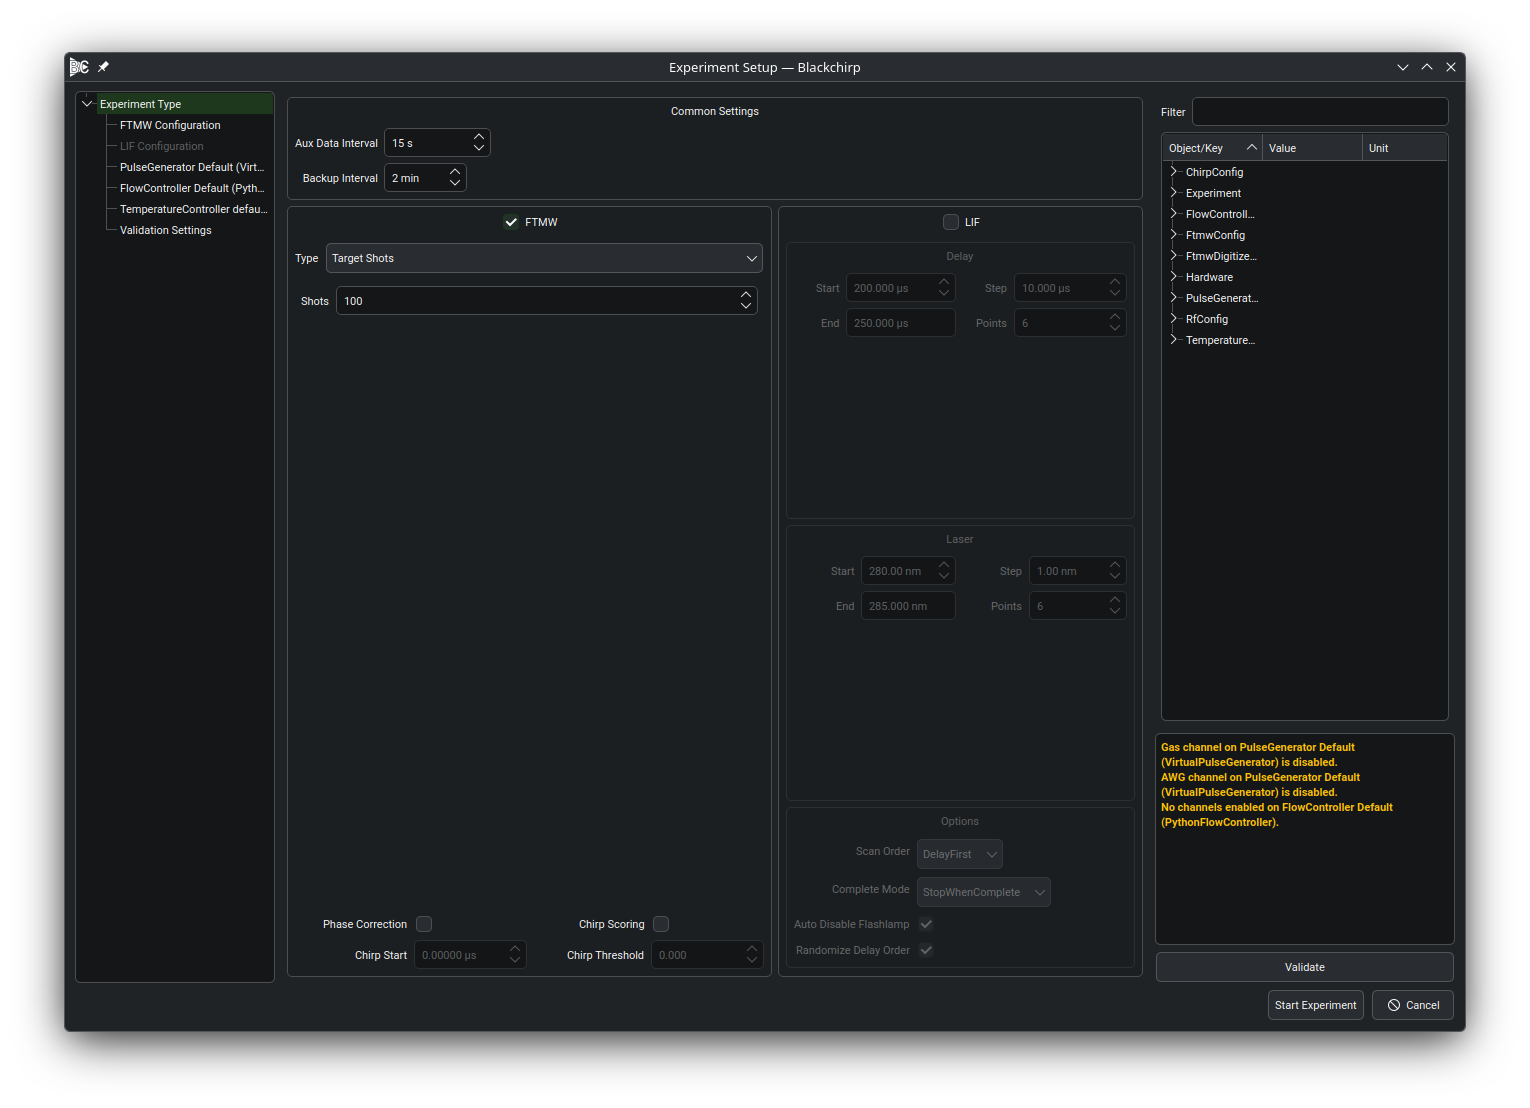
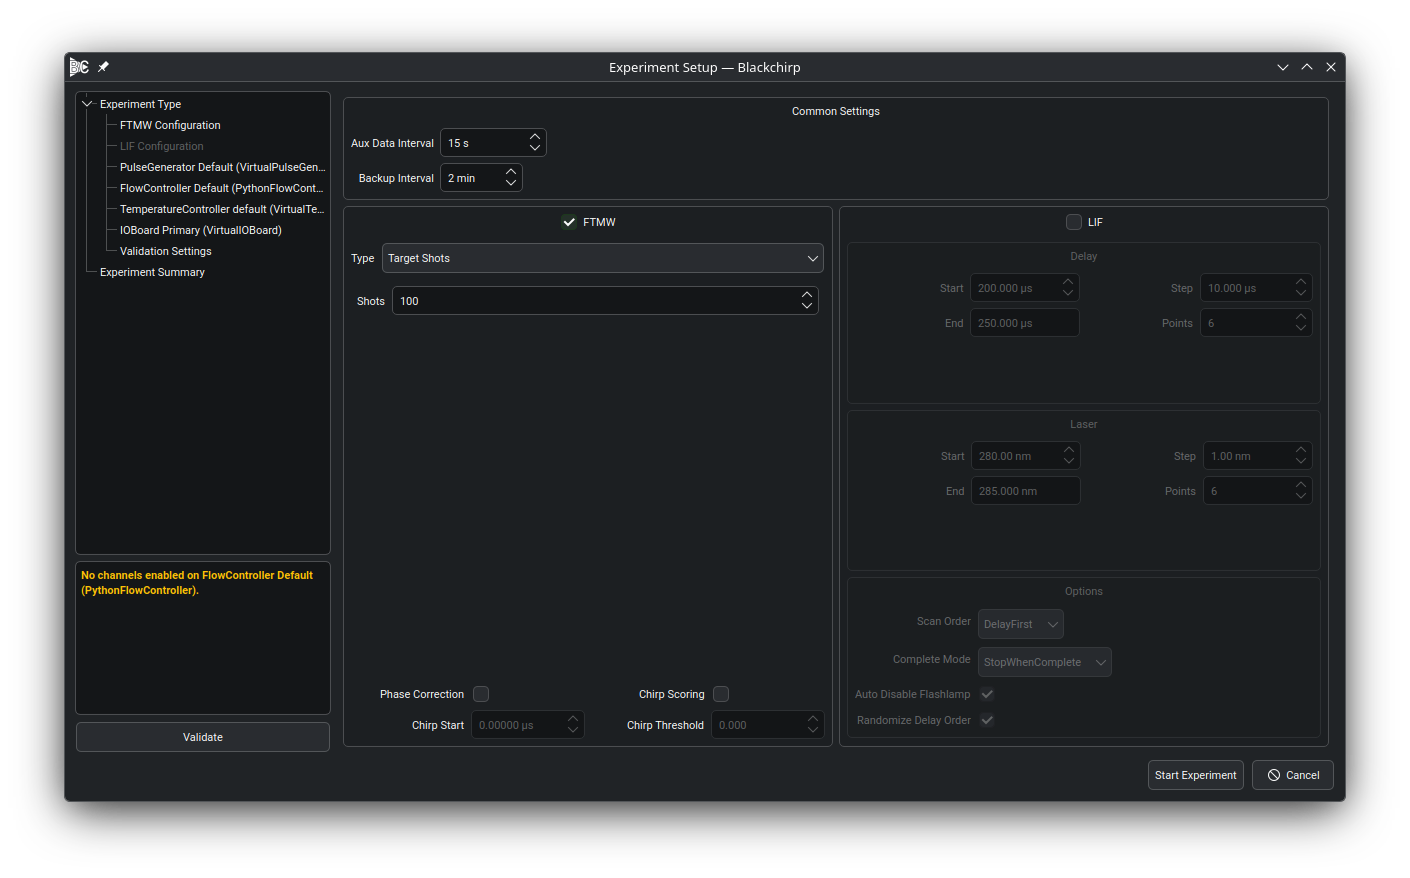
Tighten experiment_setup chapter and refresh shots
Condense the experiment_setup.rst chapter intro and trim apologia,
first-person plurals, and a Harvard anecdote out of
experiment/acquisition_types.rst. Drop the "compile-time hardware
list" framing on the Quick Experiment compatibility check, fold the
trailing optional_hardware note into the opening paragraph, and trim
the LIF Auto-Disable-Flashlamp and Randomize-Delay-Order definitions.
Refresh the experiment-startpage and experiment-validation
screenshots against the ExperimentSetupDialog reflow.

diff --git a/doc/source/user_guide/experiment_setup.rst b/doc/source/user_guide/experiment_setup.rst
@@ -11,31 +11,37 @@ Experiment Setup
    experiment/sequence_mode
    lif/experiment_setup
 
-An ``Experiment`` is the basic acquisition event in Blackchirp, and it may consist of CP-FTMW measurements and/or a laser scan experiment (see the :doc:`LIF experiment setup <lif/experiment_setup>` page for laser-scan acquisitions).
-During an experiment, FID records are collected from the FTMW Digitizer and averaged in the time domain.
-The average FID and its Fourier transform can be viewed and processed in a number of ways on the :doc:`CP-FTMW tab <cp-ftmw>` on the main user interface.
-:doc:`Auxiliary Data <rolling-aux-data>` is also recorded during the experiment.
-Depending on the :doc:`acquisition type <experiment/acquisition_types>`, the experiment will finish when one of the following conditions is met:
+An ``Experiment`` is the basic acquisition event in Blackchirp; it may
+consist of CP-FTMW measurements and/or a laser scan (see the
+:doc:`LIF experiment setup <lif/experiment_setup>` page for laser-scan
+acquisitions). FID records from the FTMW Digitizer are averaged in the
+time domain; the average FID and its Fourier transform are viewed on
+the :doc:`CP-FTMW tab <cp-ftmw>`. :doc:`Auxiliary Data <rolling-aux-data>`
+is also recorded throughout the run.
 
-1. The objective of the experiment is reached (e.g., the requested number of shots has been collected).
-2. The user clicks the ``Abort`` button on the user interface.
-3. One of the :doc:`validation conditions <experiment/validation>` is outside the designated range.
+Depending on the :doc:`acquisition type <experiment/acquisition_types>`,
+an experiment ends when one of the following conditions is met:
+
+1. The objective of the experiment is reached (e.g., the requested
+   number of shots has been collected).
+2. The user clicks the ``Abort`` button.
+3. One of the :doc:`validation conditions <experiment/validation>`
+   falls outside the designated range.
 4. A communication failure occurs with a critical piece of hardware.
 
-To start an experiment, select one of the options under the ``Acquire`` menu in the :ref:`user_guide/ui_overview:Main Toolbar`.
-The ``Start Experiment`` option opens a wizard that walks through configuring acquisition parameters and hardware settings (e.g., digitizer sample rate, FID record length, and optional hardware).
+To start an experiment, select an option from the ``Acquire`` menu in
+the :ref:`user_guide/ui_overview:Main Toolbar`. ``Start Experiment``
+opens a wizard that walks through the FTMW acquisition type, the
+:doc:`FTMW Configuration <ftmw_configuration>` (Rf Configuration,
+:doc:`Chirp <ftmw_configuration/chirp_setup>`, and
+:doc:`Digitizer <ftmw_configuration/digitizer_setup>`), settings for
+any present :doc:`optional hardware <experiment/optional_hardware>`,
+and the desired :doc:`validation conditions <experiment/validation>`.
+A past experiment can be repeated through the
+:doc:`Quick Experiment <experiment/quick_experiment>` action, which
+pre-populates the wizard from a saved experiment.
 
-The key points for an FTMW acquisition are:
-
-1. On the first wizard page, select the desired :doc:`acquisition type <experiment/acquisition_types>` and enter the acquisition objective.
-   For LO Scan and DR Scan types, the scan parameters appear on the same page immediately below the type selector.
-2. Verify and adjust the :doc:`FTMW Configuration <ftmw_configuration>` (Rf Configuration, :doc:`Chirp Configuration <ftmw_configuration/chirp_setup>`, and :doc:`FTMW Digitizer Configuration <ftmw_configuration/digitizer_setup>`).
-3. Review the settings for any present :doc:`optional hardware <experiment/optional_hardware>`.
-4. Set up any desired :doc:`validation conditions <experiment/validation>`.
-
-A past experiment can be repeated using the :doc:`Quick Experiment <experiment/quick_experiment>` option, which pre-populates the wizard from a saved experiment.
-
-Once you have finished with the wizard, Blackchirp reads the settings for each piece of hardware and attempts to initialize each item in turn.
-If any errors occur during this process, the experiment is canceled and error messages will be displayed on the ``Log`` tab.
-In the event that you encounter errors, check the :doc:`Hardware Details <hardware_details>` section of this manual to see if there are known issues or workarounds, and consider `reporting a bug <https://github.com/kncrabtree/blackchirp/issues>`_ if the problem cannot be solved.
-Once all hardware has been initialized successfully, Blackchirp will ensure that it can acquire system resources (including GPU initialization if applicable), create a new folder to store data, and begin the acquisition.
+After the wizard closes, Blackchirp initializes each device in turn;
+errors during initialization cancel the experiment and surface on the
+``Log`` tab. Once initialization succeeds, a new data folder is
+created and acquisition begins.

diff --git a/doc/source/user_guide/experiment/optional_hardware.rst b/doc/source/user_guide/experiment/optional_hardware.rst
@@ -10,10 +10,17 @@
 Optional Hardware Pages
 =======================
 
-After the FTMW chirp and digitizer pages, the experiment wizard inserts a dedicated configuration page for each optional hardware device that is present in the active :doc:`hardware loadout <../hardware_config/loadouts>`.
-Each page is labeled with the display name of the hardware item so that it is unambiguous when multiple devices of the same type are configured.
+After the FTMW chirp and digitizer pages, the experiment wizard
+inserts one configuration page per optional hardware device in the
+active :doc:`loadout <../hardware_config/loadouts>`. Each page is
+labeled with the device's display name so that multiple devices of
+the same type are unambiguous. To add or remove optional devices,
+edit the loadout in the :doc:`Hardware Configuration <../hardware_config>`
+dialog before opening the wizard.
 
-The pages that may appear correspond to the following device types; each is documented in detail on its :doc:`Hardware Details <../hardware_details>` page, including the controls that appear on the wizard page:
+The pages that may appear correspond to the device types below; the
+controls on each page are documented on the device's
+:doc:`Hardware Details <../hardware_details>` page:
 
 - :doc:`Pulse Generator <../hw/pulsegenerator>`
 - :doc:`Flow Controller <../hw/flowcontroller>`
@@ -24,14 +31,14 @@ The pages that may appear correspond to the following device types; each is docu
 Initialization from live settings
 ---------------------------------
 
-By default each optional hardware page is pre-populated with the **live settings** read from the running device at the time the wizard opens.
-This means the values shown reflect the state of the hardware rather than any stored default, so day-to-day parameters (flow setpoints, pulse timings, etc.) require no manual adjustment for a routine experiment.
+Each page is pre-populated with the **live settings** read from the
+running device when the wizard opens, so day-to-day parameters (flow
+setpoints, pulse timings, etc.) require no manual adjustment for a
+routine experiment. To override the live values with the settings
+saved alongside a previous experiment, open the
+:doc:`Quick Experiment <quick_experiment>` dialog and uncheck
+``Use Current Settings`` for the relevant device before launching the
+wizard.
 
-To override live settings with saved values — for example, when repeating a specific historical experimental configuration — use the :doc:`Quick Experiment <quick_experiment>` dialog and uncheck the ``Use Current Settings`` box for the relevant device before opening the wizard.
-
-Changes made on an optional hardware wizard page are applied to the device when the experiment starts; they do not take effect on the running hardware until that point.
-
-.. note::
-   Optional hardware pages only appear for devices that are enabled in the active loadout.
-   If a device type is not listed in the active loadout, its wizard page is omitted entirely.
-   To add or remove optional hardware devices, use the :doc:`Hardware Configuration <../hardware_config>` dialog before opening the experiment wizard.
+Changes made on an optional hardware page are applied to the device
+when the experiment starts, not while the wizard is open.

diff --git a/doc/source/user_guide/experiment/acquisition_types.rst b/doc/source/user_guide/experiment/acquisition_types.rst
@@ -151,19 +151,24 @@ In addition to the acquisition type, other options accessible on the first wizar
 Phase Correction
 ................
 
-Time-domain averaging requires that FIDs are mutually in phase with one another.
-This is typically achieved by locking all oscillators to a common reference frequency generated by a stable source such as a rubidium clock.
-However, in some cases, over the course of a long acquisition, some phase drift may occur (we discovered this one winter day at Harvard when a lab door to the outside was open for 30 minutes for moving equipment out, and the intensity of an OCS signal steadily decreased).
-To mitigate this potential case, Blackchirp has a "phase correction" algorithm that attempts to correct for slow phase drift.
-This algorithm can be enabled by checking the ``Phase Correction`` box.
+Time-domain averaging requires that FIDs are mutually in phase.
+Locking all oscillators to a common reference (a rubidium clock or
+similar stable source) typically achieves this, but slow phase drift
+can still accumulate over long acquisitions due to ambient temperature
+swings and similar perturbations. Checking the ``Phase Correction``
+box enables an algorithm that compensates for slow drift.
 
-In order to work, the FID record from the digitizer must contain the chirp, and the chirp should not be saturated on the scale of the digitizer.
-Often the leakage through a switch is sufficient, but we have also used directional couplers and/or SPDT switches with some success to allow an attenuated version of the chirp to bypass a diode limiter/protection switch combination.
-Blackchirp attempts to determine where the chirp is located within the wavefunction (more on this below), and then computes the cross correlation between the chirp in the new record with the current average chirp after at least 20 FIDs have been recorded.
-This calculation is performed with trial shifts of up to a few points in time to determine the maximum.
-Usually the shift is 0, but over time a nonzero shift may accumulate due to, e.g., temperature fluctuations.
-Blackchirp attempts to be conservative, only changing the current shift if there is a significant improvement in the computed figure of merit.
-If the shift exceeds 50 points, an error is thrown.
+The algorithm requires that the chirp is visible — and unsaturated —
+within the digitizer record. Switch leakage is often sufficient; a
+directional coupler or SPDT switch can also route an attenuated copy
+of the chirp around a diode limiter / protection switch. Blackchirp
+locates the chirp within the FID (see below), then cross-correlates
+the chirp in each new record against the current averaged chirp once
+at least 20 FIDs have been recorded, sweeping trial shifts of up to a
+few points to find the maximum. The shift is usually 0, but a small
+nonzero value can accumulate over time. The current shift is updated
+only when the figure of merit improves significantly; an error is
+raised if the shift exceeds 50 points.
 
 If the ``Chirp Start`` box is set to ``Automatic``, Blackchirp assumes that the digitizer is triggered at the start of the protection pulse.
 The chirp start is then set to the sum of the pre-chirp protection and pre-chirp delay settings entered on the :ref:`user_guide/ftmw_configuration/chirp_setup:Chirp Setup` page, and the chirp end is determined from the chirp duration entered on that page.

diff --git a/doc/source/user_guide/lif/experiment_setup.rst b/doc/source/user_guide/lif/experiment_setup.rst
@@ -100,19 +100,15 @@ The **Options** panel controls the order and behavior of the scan.
      is needed; the experiment ends when the user clicks **Abort**.
 
 **Auto Disable Flashlamp**
-   When checked, Blackchirp automatically disables the laser flashlamp when
-   the acquisition ends. The purpose is to preserve the flashlamp itself,
-   which has a finite firing lifetime; leaving it running between
-   acquisitions consumes lifetime that could otherwise be spent collecting
-   data.
+   When checked, the laser flashlamp is disabled when the acquisition
+   ends, extending its firing lifetime.
 
 **Randomize Delay Order**
-   When checked, the delay points are visited in a randomized order within
-   each sweep rather than sequentially from start to end. Randomizing the
-   delay order is useful when the sample or background signal drifts slowly
-   with time, because it decorrelates systematic drift from the delay
-   coordinate. The laser axis is always stepped sequentially; only the delay
-   ordering is randomized.
+   When checked, the delay points within each sweep are visited in
+   randomized order rather than sequentially. Useful when the sample
+   or background drifts slowly, since it decorrelates systematic drift
+   from the delay coordinate. Only the delay ordering is randomized;
+   the laser axis is always stepped sequentially.
 
 Initializing from a previous experiment
 ---------------------------------------

diff --git a/doc/source/user_guide/experiment/quick_experiment.rst b/doc/source/user_guide/experiment/quick_experiment.rst
@@ -15,13 +15,17 @@ Select the desired experiment to repeat using the number field; the details of t
 .. note::
    Blackchirp only supports repeating experiments stored in the current Data Storage Location.
 
-**Hardware compatibility check.** Blackchirp compares the hardware map (loadout) of the selected experiment against the runtime hardware map of the running instance.
-Each entry in the map records the hardware key and the specific driver that was active at the time the experiment was saved.
-If the two maps differ in any way — a device missing, added, or replaced with a different driver — the ``Configure Experiment`` and ``Start Experiment`` buttons are disabled and an error message is shown.
-This check is loadout-based: it uses the runtime profile saved with the experiment, not a compile-time hardware list.
+**Hardware compatibility check.** Blackchirp compares the hardware
+map (loadout) of the selected experiment against the active hardware
+map. Each map entry records the hardware key and the driver that was
+active at save time. If the two maps differ — a device missing,
+added, or replaced with a different driver — the ``Configure
+Experiment`` and ``Start Experiment`` buttons are disabled and an
+error message is shown.
 
-A major-version mismatch also blocks repeating an experiment.
-A minor-version mismatch produces a warning and strongly recommends configuring the experiment manually before starting.
+A major-version mismatch also blocks repeating an experiment. A
+minor-version mismatch produces a warning and strongly recommends
+configuring the experiment manually before starting.
 
 **Use Current Settings.** The panel on the right side of the dialog lists each optional hardware device (Pulse Generators, Flow Controllers, Pressure Controllers, IO Boards, and Temperature Controllers) with a checkbox labeled ``Use Current Settings``.
 When a box is checked, the experiment uses the live settings for that device rather than the values saved with the original experiment.

diff --git a/dev-docs/user-guide-cleanup.md b/dev-docs/user-guide-cleanup.md
@@ -196,7 +196,7 @@ Hardware Setup:
 
 Running Experiments:
 
-- [ ] `experiment_setup.rst` and `experiment/` sub-pages
+- [x] `experiment_setup.rst` and `experiment/` sub-pages
 - [ ] `ftmw_configuration.rst`
 - [ ] `ftmw_configuration/rf_configuration.rst` (moved from the
   user-guide root)
@@ -206,7 +206,7 @@ Running Experiments:
   `hardware_config/ftmw_presets.rst`; cleanup landed in same pass)
 - [ ] `lif/configuration.rst` (LIF Configuration dialog, sibling of
   `ftmw_configuration`)
-- [ ] `lif/experiment_setup.rst` (folded into `experiment_setup`'s
+- [x] `lif/experiment_setup.rst` (folded into `experiment_setup`'s
   toctree)
 
 Inspecting Data:
@@ -274,8 +274,7 @@ actually visible at the capture frame:
   status sidebar.
 - [ ] `cp-ftmw-peakfind.png` — peak-find panel; status sidebar may
   be in frame.
-- [ ] `experiment-startpage.png`, `experiment-loscan.png`,
-  `experiment-drscan.png`, `experiment-validation.png`,
+- [ ] `experiment-loscan.png`, `experiment-drscan.png`,
   `experiment-quickexpt_1.png`, `experiment-quickexpt_2.png`,
   `experiment-sequence.png`, `lif-lif_exp_setup.png` — all live
   inside ExperimentSetupDialog; dialog chrome (nav tree, status